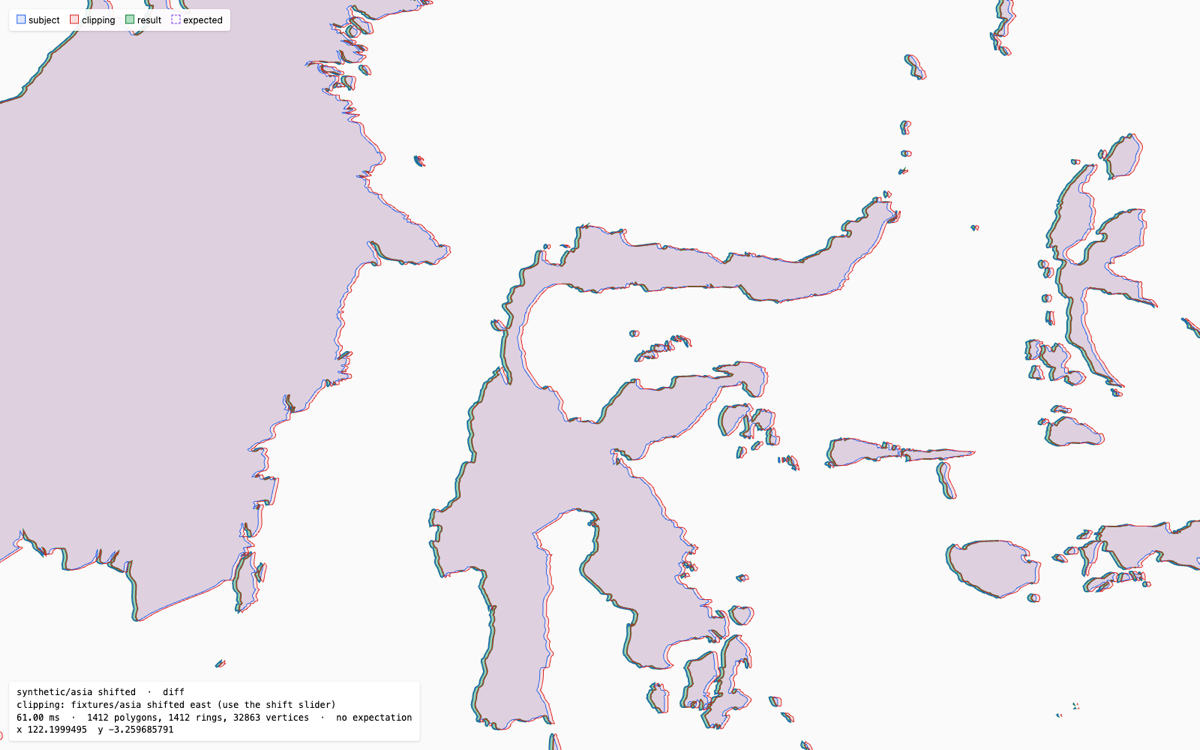
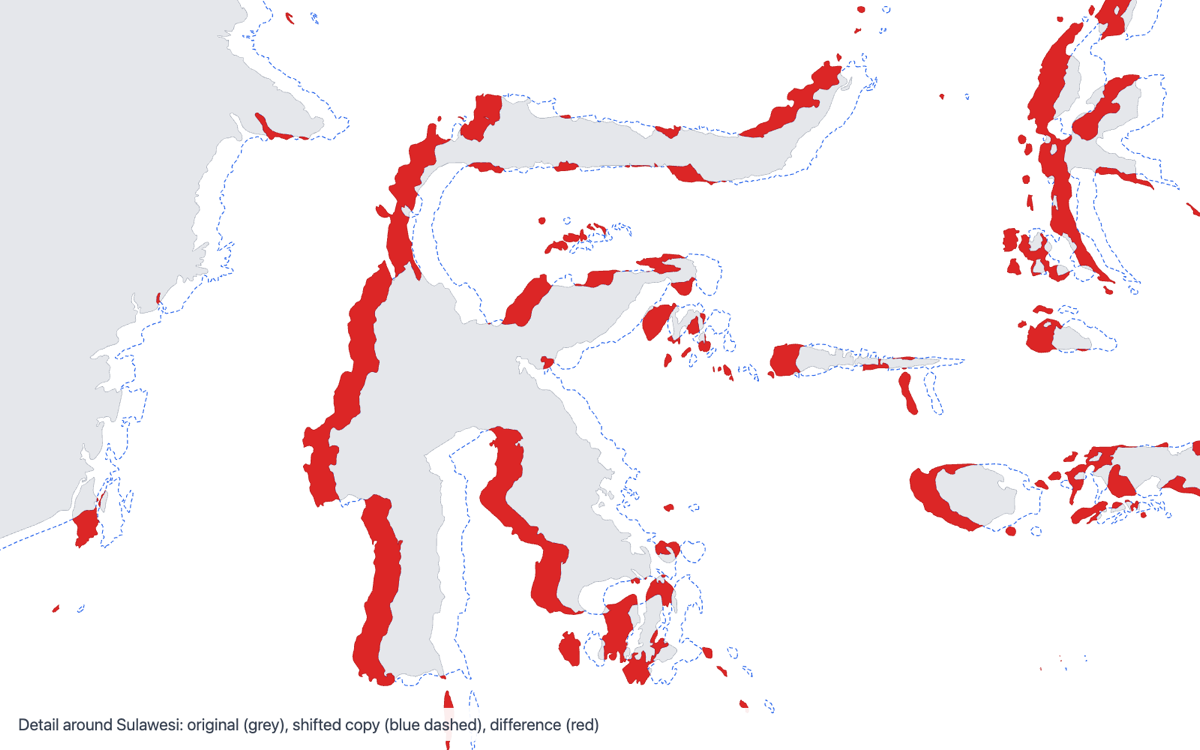
Redraw the stress-test visuals: 0.3 degree shift, difference in red
Rendered as SVG straight from the library output instead of viewer
screenshots: land in grey, the shifted copy as a dashed outline and the
difference in red. The larger shift makes the slivers visible at the
overview scale; the benchmark keeps 0.05 degrees.

diff --git a/README.md b/README.md
@@ -52,7 +52,9 @@ Operations per second, higher is better. Run `npm run bench` to reproduce: it be
 
 Apple M3, Node 22.17. The "shifted" cases clip the Asia polygon against a copy of itself moved slightly east, so that nearly every edge intersects; `demo/cases.html` shows it with a slider for the shift.
 
-![Asia minus Asia shifted 0.05° east, around Sulawesi: original outline in blue, shifted copy in red, difference in green](bench/img/asia-shifted-detail.png)
+![Asia minus a copy shifted 0.3° east, around Sulawesi: original in grey, shifted copy dashed blue, difference in red](bench/img/asia-shifted-detail.png)
+
+*The difference with a larger 0.3° shift, to make the slivers visible (the benchmark uses 0.05°).*
 
 ### Features
 
